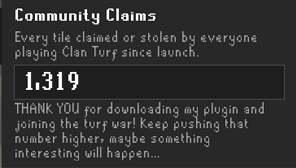
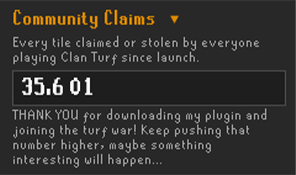
Document alliances + player indicators in README; refresh screenshots

Changed region(s): [[0.0, 0.0, 1.0, 1.0], [0.0304, 0.0298, 0.5473, 0.1786], [0.5777, 0.0595, 0.6081, 0.1488]]

diff --git a/README.md b/README.md
@@ -1,8 +1,16 @@
 # Clan Turf
 
-There are exactly 2,210 tiles you can stand on at the Grand Exchange - and Clan Turf turns every one of them into contested territory for your clan. Walk across a tile to claim it, stamped in your clan's color; step onto a rival's and it flips to yours. A live sync server shows every clan's turf in real time, per world, so the whole GE becomes a running turf war that resets fresh each day.
+There are exactly 2,210 tiles you can stand on at the Grand Exchange, and Clan Turf turns every one of them into contested territory for your clan. Walk across a tile to claim it, stamped in your clan's color; step onto a rival's and it flips to yours. A live sync server shows every clan's turf in real time, per world, so the whole GE becomes a running turf war that resets fresh each day.
 
 ![Hero](images/hero.png)
+
+## Where to find things ![Clan Turf icon](images/icon.png)
+
+Clan Turf has two homes. The **Clan Turf side panel**, opened from the RuneLite sidebar, is your live dashboard for the scoreboard, Active Battles, alliance controls, Community Claims, and the offline sandbox.
+
+Everything you can toggle or customize, from visuals and sounds to clan colors and alliance player indicators, is found in the plugin's **settings** under the wrench (Configuration) button.
+
+Throughout this README, "in the panel" refers to the Clan Turf side panel, while any bold setting name refers to an option found in the plugin's settings.
 
 ## Claim turf by walking
 
@@ -10,7 +18,7 @@ Step on any Grand Exchange tile to claim it for your clan. Walk onto a rival's t
 
 ![Territory](images/territory.png)
 
-As you run, an optional trail effect marks your path in your clan's color - a slick ripple of little walls that cascades out behind you before fading away. Not in a clan? The trail runs neutral white, so you still get the walking visual at the GE even though you can't claim.
+As you run, an optional trail effect marks your path in your clan's color: a slick ripple of little walls that cascades out behind you before fading away. Not in a clan? The trail runs neutral white, so you still get the walking visual at the GE even though you can't claim.
 
 ![Snail trail](images/snailtrail.png)
 
@@ -28,7 +36,7 @@ Take the GE while you're standing in it and the whole cast of Grand Exchange NPC
 
 ## Pre-claimed pockets
 
-Parts of the Grand Exchange aren't walkable - the stools, the stalls, the walls, the foliage. Rather than leave holes in a clan's territory, Clan Turf fills those pockets in the current owner's color (white while the GE is unclaimed) so turf reads as one solid block, and they recolor on takeover right along with the boundary. Purely cosmetic: these tiles are never claimable and never counted. Turn it off with **Show Pre-Claims**.
+Parts of the Grand Exchange aren't walkable: the stools, the stalls, the walls, the foliage. By default these pockets only fill in a clan's color where that clan's claims already surround them, so a fresh GE stays clean. Turn on **Show Pre-Claims** and every pocket fills in the current owner's color (white while the GE is unclaimed), so a clan's turf reads as one solid block and the pockets recolor on takeover right along with the boundary. Either way it is purely cosmetic: these tiles are never claimable and never counted.
 
 ![Pre-claims](images/preclaims.png)
 
@@ -40,23 +48,43 @@ The GE is tinted on your minimap in the current owner's color. On the world map,
 
 ## Live scoreboard
 
-The side panel ranks every clan on your world by tiles held, with each clan's share of the GE. The bars slide into place as the fight unfolds. An alliance carries its symbol on the right of its bar - click the symbol to expand a breakdown of how many tiles each allied clan has put in, while the bar keeps showing the team's combined total.
+The side panel ranks every clan on your world by tiles held, with each clan's share of the GE. The bars slide into place as the fight unfolds. An alliance carries its symbol on the right of its bar. Click that symbol to expand the bar into a breakdown of how many tiles each allied clan has put in, while the bar itself keeps showing the team's combined total. Click again to collapse it.
 
 ![Scoreboard](images/scoreboard.png)
 
+![Scoreboard expanded](images/scoreboardexpanded.png)
+
 ## Active battles
 
-See which worlds are contested, with the leading clan and closest rival shown for each world, so you know where to head next.
+The **Active battles** list in the side panel shows which worlds are contested, with the leading clan and closest rival for each world, so you know where to head next. Your current world always stays pinned at the top; click the **Tiles**, **World**, or **Owner** header to sort the rest, and click again to flip the direction.
 
 ![Active battles](images/activebattles.png)
 
 ## Alliances
 
-Team up with other clans. One clan creates an alliance and shares a passcode; any clan that joins is treated as one team - allied clans stop taking each other's tiles, and their turf shows in a single shared color and counts as one on the scoreboard, the leader, and the Active Battles board that everyone sees. Two clans mid-battle can trade a code and merge their tiles on the spot.
+Team up with other clans. One clan creates an alliance and shares a passcode; any clan that joins is treated as one team: allied clans stop taking each other's tiles, and their combined turf shows in a single shared color and counts as one clan on the scoreboard, the leader, and the Active Battles board that everyone sees. Two clans in the middle of a fight can trade a code and merge their tiles on the spot.
 
-Alliances live in a collapsible **Alliance** section in the side panel, managed by your clan's leadership (Owner, Deputy, or Admin). The clan that creates the alliance owns it and can recolor it, give it a symbol, remove clans, change the passcode, or disband it; a clan that only joined gets a **Leave alliance** button instead. Prefer a different shade? Clicking your own clan's scoreboard bar to pick a local color still overrides the alliance color for your view.
+### Creating one
 
-Pick one of the game's official clan symbols for your alliance and it shows everywhere the alliance does: large above the name on the world map, on its scoreboard bar, and beside its name in the panel. The passcode is just a code you make up to control who can join - it is never your RuneScape or Jagex account password, and Clan Turf will never ask for that.
+Alliances live in a collapsible **Alliance** section in the side panel, and only your clan's leadership (Owner, Deputy, or Admin) can set one up. Give it a name (up to two words, ten letters each), pick a shared color and one of the game's official clan symbols, and set a passcode, or leave it blank and one is generated for you. Hit **Create alliance** and your clan owns it.
+
+### Joining one
+
+Get the passcode from whoever runs the alliance, drop it into the **Join an alliance** box in the same panel, and hit **Join alliance**. That is the whole handshake, no invites and no waiting. Your clan's turf immediately merges into the alliance's color and total.
+
+### Running it
+
+The clan that created the alliance owns it: from the panel it can recolor the alliance, change its symbol, copy or change the passcode (click the passcode to copy it), remove a clan, or disband the whole thing. A clan that only joined gets a **Leave alliance** button instead. A removed or blocked clan is listed under the **Blocked allies** settings section and cannot rejoin until you take it back off that list. Prefer a different shade for your own eyes? Clicking your own clan's scoreboard bar to pick a local color still overrides the alliance color for your view only.
+
+The alliance symbol shows everywhere the alliance does: large above the name on the world map, on its scoreboard bar, and beside its name in the panel. The passcode is just a code you make up to control who can join. It is never your RuneScape or Jagex account password, and Clan Turf will never ask for that.
+
+### Player indicators
+
+Turn on **Show player indicators** in the settings and the alliance's symbol, in the alliance color, floats over the heads of alliance members around you, so in a crowded fight you can pick out who is on your side and who is not at a glance. Your own clanmates are tagged automatically from local data. To see players from *other* clans in your alliance, both of you need this turned on: switching it on opts you in, adding your name and alliance to a public roster that everyone running Clan Turf can read, so opted-in players can be shown over each other's heads. Only your name and alliance are ever shared, never your location, and you are removed from the roster shortly after you turn it back off.
+
+By default the symbols show only while you are at the Grand Exchange and fade out as you leave (**Hide indicators outside GE** controls that). **Show names** adds the player's name under the symbol, skipping anyone the Player Indicators plugin or your own friends, clan, or team already name so nothing doubles up, and **Indicator opacity** sets how strong the symbol looks. All four live in the **Alliances** settings section.
+
+![Alliance player indicator](images/allianceplayerindicator.png)
 
 ## Rally your clan in chat
 
@@ -64,21 +92,21 @@ Type `!defend 307` or `!invade 420` in clan chat (`!def` and `!inv` also work) t
 
 ## Community Claims
 
-A running all-time counter tracks every tile claimed or stolen across every clan and world since launch. It never resets with the daily wipe. Your claims update instantly, while community claims periodically roll in.
+At the bottom of the side panel, a running all-time counter tracks every tile claimed or stolen across every clan and world since launch. It never resets with the daily wipe. Your claims update instantly, while community claims periodically roll in.
 
 ![Community Claims](images/comclaim.png)
 
 ## Pick your clan colors
 
-Every clan is auto-assigned its own color, but you can override any of them. Hover a bar in the side panel to highlight it and click to open the color wheel - pick a color for your own clan or a rival's. Your picks are saved to a local color list you can copy and paste to share a whole palette with clanmates. It's all local, so everyone else still sees their own colors.
+Every clan is auto-assigned its own color, but you can override any of them. Hover a bar in the side panel to highlight it and click to open the color wheel, then pick a color for your own clan or a rival's. Your picks are saved to a local color list you can copy and paste to share a whole palette with clanmates. It's all local, so everyone else still sees their own colors.
 
-Colorblind? A **Colorblind mode** in the settings adjusts every clan color, auto and custom alike, to be easier to tell apart - protanopia, deuteranopia, or tritanopia.
+Colorblind? A **Colorblind mode** in the settings adjusts every clan color, auto and custom alike, to be easier to tell apart: protanopia, deuteranopia, or tritanopia.
 
 ![Colorblind](images/colorblind.png)
 
 ## Tiles per hour
 
-The **Tiles/hour tracker** shows **Tiles Claimed**, **Current TPH**, and **Max TPH** in a draggable overlay. It persists across world hops and relogs. Shift + right-click the tracker to **Reset run** or **Reset all**.
+Enable the **Tiles/hour tracker** in the settings and it shows **Tiles Claimed**, **Current TPH**, and **Max TPH** in a draggable on-screen overlay. It persists across world hops and relogs. Shift + right-click the tracker to **Reset run** or **Reset all**.
 
 ![Tiles per hour](images/tph.png)
 
@@ -115,7 +143,7 @@ All turf wipes daily at 00:00 UTC. An on-screen countdown and clan warnings give
 - **Tint GE on minimap** / **Minimap opacity** - Shade the GE on the minimap in the owner's color, and how strong.
 - **Tint GE on world map** / **Worldmap opacity** - Shade and outline the GE on the world map in the owner's color with the clan name (works anywhere), and how strong the tint is.
 - **Show GE boundary** - Draw the GE border line on screen.
-- **Show Pre-Claims** - Fill the unwalkable GE pockets in the owner's color (white when unclaimed). Cosmetic; never counted.
+- **Show Pre-Claims** - Off by default. On, fill every unwalkable GE pocket in the owner's color (white when unclaimed) so turf reads solid; off, a pocket fills only where a clan's claims border it. Cosmetic; never counted.
 - **Snail trail** - Leave a fading clan-colored trail behind you. Does not affect claims or TPH.
 - **Tile walls** - Toggle all raised wall effects: tile captures, takeovers, and the snail trail.
 
@@ -126,7 +154,7 @@ All turf wipes daily at 00:00 UTC. An on-screen countdown and clan warnings give
 - **Border animation** - On a takeover, raise the boundary into a wall, or just fade it to the new color (flat).
 - **Announce takeovers** - Post a clan-tab message when the GE changes hands.
 - **Takeover sound** / **Takeover volume** - Play a cue on takeover, and set how loud.
-- **NPC takeover barks** - When the GE changes hands while you're there, the Grand Exchange NPCs react with overhead chatter naming the new owner, in that clan's color with a little wave. Visual only, never posted to chat.
+- **NPC takeover text** - When the GE changes hands while you're there, the Grand Exchange NPCs react with overhead chatter naming the new owner, in that clan's color with a little wave. Visual only, never posted to chat.
 
 ![Takeover settings](images/configtakeover.png)
 
@@ -139,10 +167,23 @@ All turf wipes daily at 00:00 UTC. An on-screen countdown and clan warnings give
 
 ![Clan settings](images/configclan.png)
 
+### Blocked allies
+
+- **Blocked clans** - Clan names, comma-separated, barred from joining your alliance (only applies while your clan owns one). The kick x in the Alliance panel adds a name here; remove one to un-block that clan.
+
+### Alliances
+
+- **Show player indicators** - Off by default. Float the alliance symbol, in the alliance color, over alliance members' heads so you can spot allies and rivals. Turning it on opts you in: your name and alliance are added to a public roster everyone running Clan Turf can read, so others can see your symbol. Only your name and alliance are sent, never your location, and you're removed shortly after you turn it off.
+- **Show names** - On by default. Also draw the player's name under the symbol, skipping anyone Player Indicators or your own friends, clan, or team already name so names never double up.
+- **Hide indicators outside GE** - On by default. Only show the symbols at the Grand Exchange; they fade out as you leave. Local only.
+- **Indicator opacity** - Max opacity of the overhead alliance symbol and name (0 = invisible, 100 = full).
+
+![Alliances settings](images/configallianceunchecked.png) ![Alliances settings with indicators on](images/configalliancechecked.png)
+
 ### Network
 
 - **Use sync server** - Sync with other clans so the war is live (on by default). Off for local-only, nothing sent.
-- **Show alliance name tags** - Off by default. On, it draws the alliance color and symbol over the heads of players who have opted in, anywhere in the game, so you can pick out allies and rival alliances at a glance. Turning it on also opts you in: your name and alliance are added to a public roster that everyone running Clan Turf can read, until you turn it back off (you are removed shortly after). Only your name and alliance are shared, never your location.
+- **Server URL** - The sync server address. Leave as-is unless you run your own.
 
 ![Network settings](images/confignetwork.png)
 
@@ -159,5 +200,5 @@ All turf wipes daily at 00:00 UTC. An on-screen countdown and clan warnings give
 
 - **Turf is per clan and per world.** You need to be in a clan to claim anything, and each world's Grand Exchange is its own separate battleground.
 - **For the best look, pair it with [Improved Tile Indicators](https://runelite.net/plugin-hub/show/improved-tile-indicators).** Enable **Draw overlays below player** and **Draw overlays below NPCs**, then add the GE NPCs to **NPCs to draw on top**. Pets can be set to **Draw below** via shift + right-click.
-- **What gets sent to the server.** With sync enabled, Clan Turf sends your clan name, claimed GE tile coordinates, and current world number. If you create or join an alliance, it also sends the alliance name, color, symbol, and passcode you enter. If you turn on **Show alliance name tags**, it additionally sends your player display name paired with your alliance, so opted-in players can be shown over each other's heads - this is opt-in, is removed shortly after you turn it off, and never includes your location. No account details, passwords, or location tracking are sent. Syncing pauses when you log out.
+- **What gets sent to the server.** With sync enabled, Clan Turf sends your clan name, claimed GE tile coordinates, and current world number. If you create or join an alliance, it also sends the alliance name, color, symbol, and passcode you enter. If you turn on **Show player indicators**, it additionally sends your player display name paired with your alliance, so opted-in players can be shown over each other's heads. This is opt-in, is removed shortly after you turn it off, and never includes your location. No account details, passwords, or location tracking are sent. Syncing pauses when you log out.
 - **No automation.** Clan Turf reads your position and draws overlays. Clan chat commands only read clan messages and display local formatted text. It never moves your character, sends chat, or performs automated game actions.
